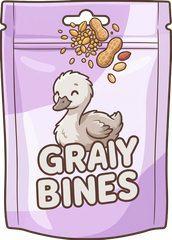
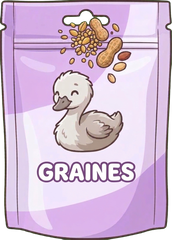
Sachet de graines : texte corrigé (GRAINES)
Claude-Session: https://claude.ai/code/session_014bi368SbjZ4sCSmbjCzFcj

diff --git a/game.js b/game.js
@@ -200,7 +200,7 @@ const emoFix = html => String(html).split(/(<[^>]*>)/).map((p, i) => i % 2 ? p :
 })();
 const ico = (t) => emoText(String(t).replace(/&/g, '&amp;').replace(/</g, '&lt;').replace(/(panier|filet|canne) \[\1\]/g, '$1').replace(/\[(panier|filet|canne|coffre|a-tresor|a-parler|a-prendre|a-cueillir|a-donner|a-attraper|a-pecher)\]/g, (m, k) => ICO_TXT[k]), true, true);   // textes simples, plus d'icônes ni d'emojis
 
-const ICON = { graine: '<img src="assets/spr/graines.png" alt="" style="height:1.3em;vertical-align:-3px">', firefly: '<img src="assets/spr/jar_glow.png" alt="" style="height:1.1em;vertical-align:-2px">', jar: '<img src="assets/spr/jar_empty.png" alt="" style="height:1.1em;vertical-align:-2px">', aqua: '<img src="assets/spr/aqua.png" alt="" style="height:1.1em;vertical-align:-2px">', treat0: '<img src="assets/spr/treat0.png" alt="" style="height:1.3em;vertical-align:-3px">', treat1: '<img src="assets/spr/treat1.png" alt="" style="height:1.3em;vertical-align:-3px">', treat2: '<img src="assets/spr/treat2.png" alt="" style="height:1.3em;vertical-align:-3px">', banana: '🍌', flower: '🌸', butterfly: '🦋', fish: '🐟', coconut: '🥥', mango: '🥭', patate: '🍠', gingembre: '🫚', arachide: '🥜', taro: '🥔', gombo: '🫑', plantain: '🍌', shell: '🐚', crab: '🦀', tukai: '🍲', katouka: '🥘', gmangue: '🍰', gbanane: '🧁' };
+const ICON = { graine: '<img src="assets/spr/graines.png?v=50" alt="" style="height:1.3em;vertical-align:-3px">', firefly: '<img src="assets/spr/jar_glow.png" alt="" style="height:1.1em;vertical-align:-2px">', jar: '<img src="assets/spr/jar_empty.png" alt="" style="height:1.1em;vertical-align:-2px">', aqua: '<img src="assets/spr/aqua.png" alt="" style="height:1.1em;vertical-align:-2px">', treat0: '<img src="assets/spr/treat0.png" alt="" style="height:1.3em;vertical-align:-3px">', treat1: '<img src="assets/spr/treat1.png" alt="" style="height:1.3em;vertical-align:-3px">', treat2: '<img src="assets/spr/treat2.png" alt="" style="height:1.3em;vertical-align:-3px">', banana: '🍌', flower: '🌸', butterfly: '🦋', fish: '🐟', coconut: '🥥', mango: '🥭', patate: '🍠', gingembre: '🫚', arachide: '🥜', taro: '🥔', gombo: '🫑', plantain: '🍌', shell: '🐚', crab: '🦀', tukai: '🍲', katouka: '🥘', gmangue: '🍰', gbanane: '🧁' };
 const FCOLOR = [['#ff7eb6', '#ffd6e8'], ['#4aa3ff', '#cfe6ff'], ['#ffd23d', '#fff1b0'], ['#3ed6b0', '#c9f5ea'], ['#b980ff', '#e9d8ff']];
 const FNAME = ['rose', 'bleue', 'dorée', 'turquoise', 'violette'];
 
@@ -2406,7 +2406,7 @@ function tamaOpen(b) {   // l'écran façon Tamagotchi
       '<h3>' + b.name + '</h3><div class="sub">' + (b.st === 'egg' ? 'Un œuf tout tiède… fais-lui un câlin chaque jour pour qu\'il éclose !' : b.st === 'teen' ? 'C\'est maintenant un jeune cygne : il se promène sur la plage.' : sleeping ? 'Chut… il dort. Reviens demain matin !' : 'Bébé cygne · bonnes journées : ' + b.good + '/3') + '</div>' +
       '<div class="scr"><span id="tmPic" class="' + (act ? 'hop' : '') + '">' + (act === 'feed' ? tmSpr('feed_hand', 60, 0) : '') + tmSpr(mood, act === 'bath' || act === 'cuddle' || act === 'play' ? 150 : b.st === 'teen' ? 165 : 150, b.hue) + '</span>' + (mood === 'hungry' ? '<span style="position:absolute;right:18%;top:12%">' + tmSpr('think', 46, 0) + '</span>' : '') + '<div class="fx" id="tmFx"></div></div>' +
       (b.st === 'baby' ? '<div class="g">' + NEED_K.map(([k, n]) => '<span>' + n + '</span><div class="bar"><i style="width:' + (b[k] * .884).toFixed(1) + '%;background:' + (b[k] < 35 ? '#ff7a5a' : b[k] < 65 ? '#ffc23d' : '#6fd16f') + '"></i></div>').join('') + '</div>' : '<div style="height:10px"></div>') +
-      '<div class="bt">' + (b.st === 'baby' ? [['feed', 'Nourrir (' + (inv.graine || 0) + ')', 'seeds'], ['bath', 'Laver', 'tub'], ['play', 'Jouer', 'play'], ['cuddle', 'Câlin', 'caress']] : [['cuddle', b.st === 'egg' ? 'Réchauffer' : 'Câlin', 'caress']]).map(([a, n, ic]) => '<button data-a="' + a + '"' + (sleeping || (b.st === 'egg' && b.warm > 0) ? ' disabled' : '') + '>' + (a === 'feed' ? '<img src="assets/spr/graines.png" alt="" style="height:34px">' : tmSpr(ic, 34, 0)) + n + '</button>').join('') + '</div></div>';
+      '<div class="bt">' + (b.st === 'baby' ? [['feed', 'Nourrir (' + (inv.graine || 0) + ')', 'seeds'], ['bath', 'Laver', 'tub'], ['play', 'Jouer', 'play'], ['cuddle', 'Câlin', 'caress']] : [['cuddle', b.st === 'egg' ? 'Réchauffer' : 'Câlin', 'caress']]).map(([a, n, ic]) => '<button data-a="' + a + '"' + (sleeping || (b.st === 'egg' && b.warm > 0) ? ' disabled' : '') + '>' + (a === 'feed' ? '<img src="assets/spr/graines.png?v=50" alt="" style="height:34px">' : tmSpr(ic, 34, 0)) + n + '</button>').join('') + '</div></div>';
     o.style.display = 'flex';
     o.querySelector('#tmX').onclick = () => { o.style.display = 'none'; player.state = 'free'; actBlock = time + .5; };
     o.querySelectorAll('.tabs button').forEach(t => t.onclick = () => { b = babies()[+t.dataset.i]; draw(); });
@@ -7298,7 +7298,7 @@ function kykahShop(e, free) {
     else if (ksTab === 'aq') h += '<div class="kg">' + items.filter(i => i.id.startsWith('aq')).map(card).join('') + '</div><div class="kNote">Les poissons du jour changent chaque jour.</div>';
     else {
       const vg = dayVeg();
-      if (typeof babies === 'function' && babies().some(b => b.st !== 'egg')) { const ok = (inv.arachide || 0) >= 3; h += '<div class="kg" style="grid-template-columns:1fr;margin-bottom:8px"><div class="kk' + (ok ? '' : ' z') + '"><img class="ki" src="assets/spr/graines.png" alt=""><div class="kn">Sachet de graines des cygneaux</div><div class="kp">3 cacahuètes du potager · 2 repas (tu en as ' + (inv.graine || 0) + ')</div><div class="kp">Tu as ' + (inv.arachide || 0) + ' cacahuète(s)</div><button class="kB" data-g="1"' + (ok ? '' : ' disabled') + '>Échanger</button></div></div>'; }
+      if (typeof babies === 'function' && babies().some(b => b.st !== 'egg')) { const ok = (inv.arachide || 0) >= 3; h += '<div class="kg" style="grid-template-columns:1fr;margin-bottom:8px"><div class="kk' + (ok ? '' : ' z') + '"><img class="ki" src="assets/spr/graines.png?v=50" alt=""><div class="kn">Sachet de graines des cygneaux</div><div class="kp">3 cacahuètes du potager · 2 repas (tu en as ' + (inv.graine || 0) + ')</div><div class="kp">Tu as ' + (inv.arachide || 0) + ' cacahuète(s)</div><button class="kB" data-g="1"' + (ok ? '' : ' disabled') + '>Échanger</button></div></div>'; }
       h += '<div class="kg" style="grid-template-columns:1fr">' + dayTreats().map(t => '<div class="kk"><img class="ki" src="assets/spr/treat' + t + '.png" alt=""><div class="kn">' + TREAT_NAME[t] + '</div><div class="kp">2 légumes du potager au choix</div><div class="kv">' + vg.map(vi => { const v = VEG[vi], ok = (inv[v.k] || 0) >= 2; return '<button class="kb" data-t="' + t + ':' + vi + '" ' + (ok ? '' : 'disabled') + '>2 ' + v.n.toLowerCase() + '<br><small>tu en as ' + (inv[v.k] || 0) + '</small></button>'; }).join('') + '</div></div>').join('') + '</div><div class="kNote">Les friandises sont pour Sukah, le chat.</div>';
     }
     h += '</div>';

diff --git a/index.html b/index.html
@@ -1137,12 +1137,12 @@
 <script src="packs.js"></script>
 <script src="data.js"></script>
 <script src="grass.js"></script>
-<script src="npcs.js?v=49"></script>
+<script src="npcs.js?v=50"></script>
 <script src="myah.js"></script>
 <script src="mymask.js"></script>
 <script src="sprites.js"></script>
 <script src="art.js"></script>
-<script src="game.js?v=49"></script>
+<script src="game.js?v=50"></script>
 </body>
 </html>
 
